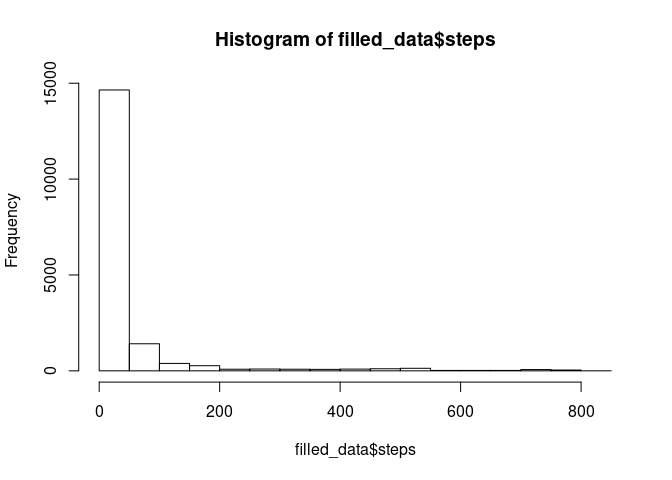
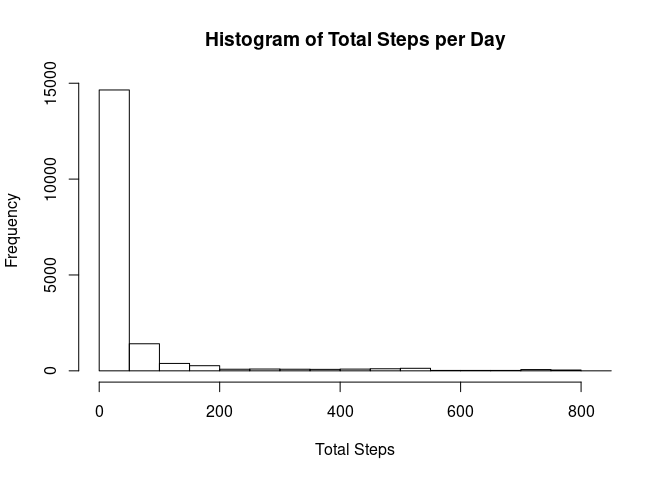
Last commit

Changed region(s): [[0.2812, 0.0625, 0.75, 0.125], [0.4375, 0.9062, 0.625, 0.9688]]

diff --git a/PA1_template.html b/PA1_template.html
@@ -423,8 +423,8 @@ return(data_set)
 
 filled_data &lt;- data_fill(activity_data)
 
-hist(filled_data$steps)</code></pre>
[1 lines of base64/hex data omitted]
+hist(filled_data$steps,xlab = &quot;Total Steps&quot;, main = &quot;Histogram of Total Steps per Day&quot;)</code></pre>
[1 lines of base64/hex data omitted]
 <pre class="r"><code>mean_fill &lt;- mean(filled_data$steps)
 median_fill &lt;- median(filled_data$steps)</code></pre>
 <div id="mean-and-median-values-for-steps" class="section level3">

diff --git a/PA1_template.md b/PA1_template.md
@@ -92,7 +92,7 @@ return(data_set)
 
 filled_data <- data_fill(activity_data)
 
-hist(filled_data$steps)
+hist(filled_data$steps,xlab = "Total Steps", main = "Histogram of Total Steps per Day")
 ```
 
 ![](PA1_template_files/figure-html/unnamed-chunk-1-1.png)<!-- -->
